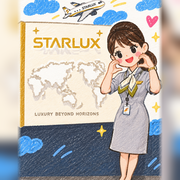
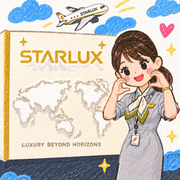
App 圖示改為整寬正方形裁切（不再需要模糊補邊）
Claude-Session: https://claude.ai/code/session_01NpiaR2qs38wkWX6faDmiWE

diff --git a/starlux/index.html b/starlux/index.html
@@ -10,12 +10,12 @@
 <meta name="mobile-web-app-capable" content="yes">
 <meta name="apple-mobile-web-app-status-bar-style" content="default">
 <meta name="apple-mobile-web-app-title" content="老大航班">
-<link rel="manifest" href="manifest.json?v=4">
+<link rel="manifest" href="manifest.json?v=5">
 <link rel="preconnect" href="https://fonts.googleapis.com">
 <link rel="preconnect" href="https://fonts.gstatic.com" crossorigin>
 <link href="https://fonts.googleapis.com/css2?family=Huninn&family=Michroma&family=Gochi+Hand&family=Courier+Prime:wght@700&display=swap" rel="stylesheet">
-<link rel="icon" type="image/png" sizes="512x512" href="laoda-crew-512.png">
-<link rel="apple-touch-icon" sizes="180x180" href="laoda-crew-180.png">
+<link rel="icon" type="image/png" sizes="512x512" href="laoda-sq-512.png">
+<link rel="apple-touch-icon" sizes="180x180" href="laoda-sq-180.png">
 <style>
 /* 日系繪本風 × 星宇色系：和紙白底、3px 金屬灰線框、大圓角、平塗 */
 :root{
